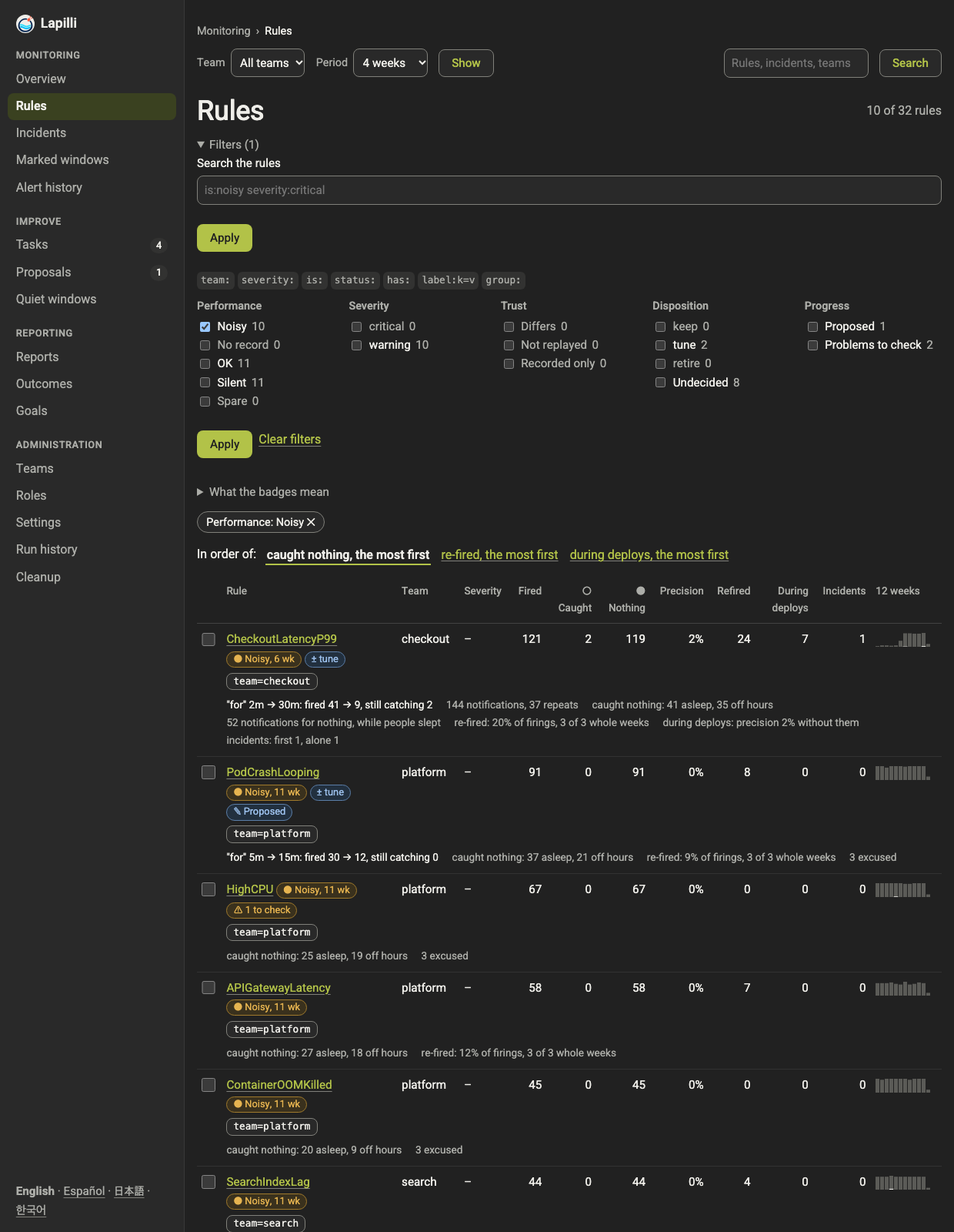
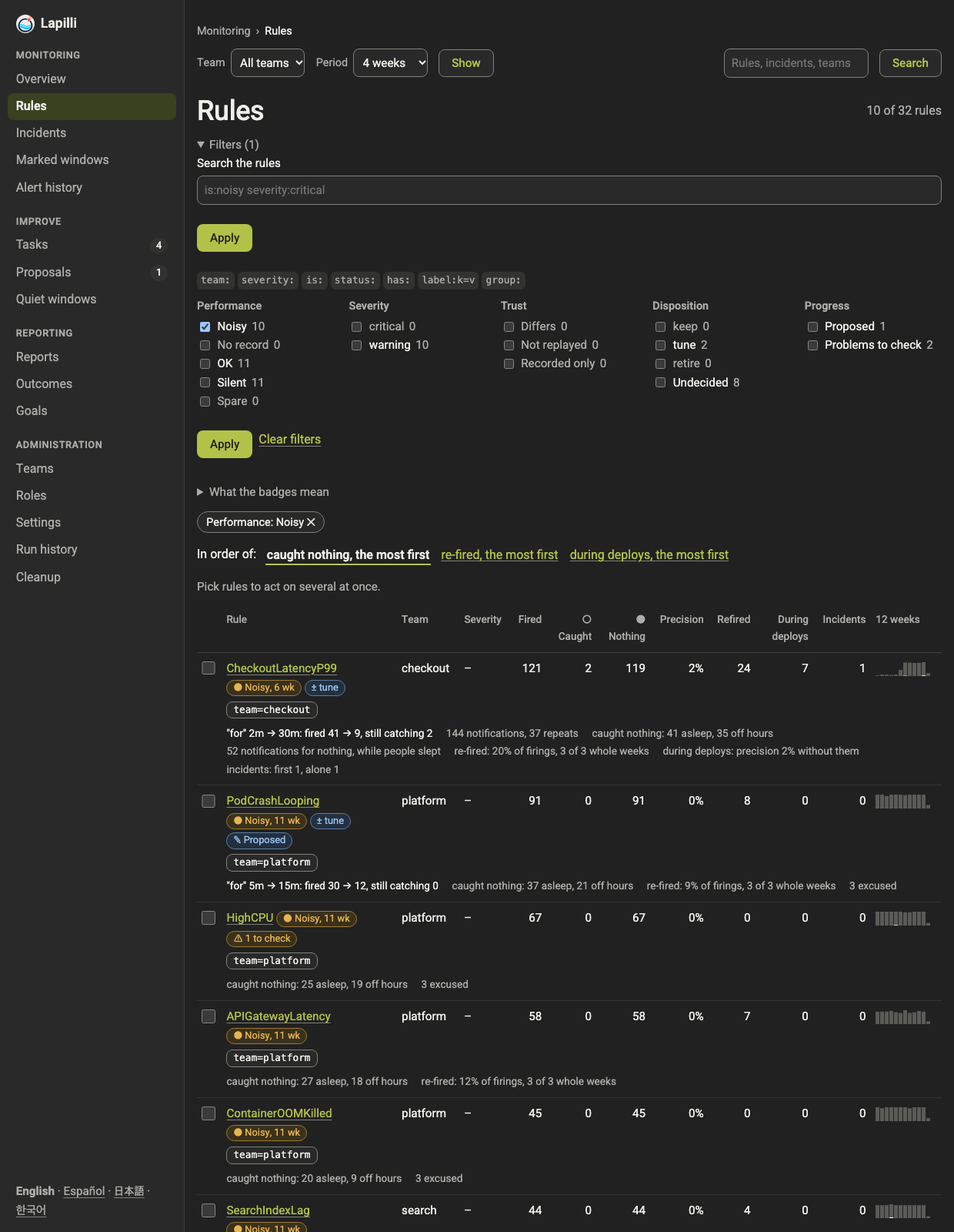
serve: review round 1: no record isn't 오탐, no firing isn't not judged
- The rules list's firings asleep of a rule with some not judged are of
  those that "caught nothing or not judged"; Korean says 인시던트를 잡지
  못한 발화 where a count may hold firings not judged, as in a tile that
  isn't known.
- Precision by week with no firing at all says so in no status's colour;
  "?" is for firings none of which was judged.
- The line before the rules list's checkboxes is shown again, shorter, and
  the bar's limits say only the rules one may change are.
- A row's notes name their rule to a screen reader; the sum's notes aren't
  drawn as a second sum.
- Cleanup is 남은 기록 정리: it holds impact windows' leftovers too. The
  design says where an arrow and a pill that is a link stay.
- TestRuleNumbersAlone counts the header's columns, in tbody and tfoot;
  TestNoRecordInALine covers a rule's page; TestPrecisionChartNone, no
  firing.

diff --git a/internal/serve/templates/rules.html b/internal/serve/templates/rules.html
@@ -21,7 +21,7 @@
 {{if .NoRecord}}<div class="notice status-unknown"><p><span class="sign" aria-hidden="true">?</span> {{if .Week}}{{t "No incident written down for the week of %s or the two weeks before: precision isn't known, and no rule is called noisy." .Week}}{{else}}{{t "No incident written down for these weeks or the two weeks before: precision isn't known, and no rule is called noisy."}}{{end}} <a href="{{$.Link "/incidents"}}">{{t "Write incidents down"}}</a></p>{{template "norecordwhy"}}</div>
 {{else if .Unkept}}<div class="notice status-unknown"><p><span class="sign" aria-hidden="true">?</span> {{t "%d of the %d weeks shown had no incident written down for them or the two weeks before: their firings are counted, not judged." .Unkept .Weeks}} <a href="{{$.Link "/incidents"}}">{{t "Write incidents down"}}</a></p>{{template "norecordwhy"}}</div>{{end}}
 {{if .Rows}}<form method="post" action="/rules/bulk" class="bulk">{{$b := .Bulk}}<input type="hidden" name="back" value="{{$b.Back}}">{{template "noenter"}}
-{{if $b.May}}<p class="vh bulk-hint">{{t "Pick rules in the list to make a task for each, set their team or disposition, or propose a change for each."}}</p>{{end}}
+{{if $b.May}}<p class="quiet bulk-hint">{{t "Pick rules to act on several at once."}}</p>{{end}}
 <fieldset class="bulk-bar"><legend>{{t "With the rules picked"}}</legend>
 {{if $b.May}}<button name="do" value="task">{{t "Make a task for each"}}</button>{{else}}{{template "off" (offOf $ "Make a task for each" "editor" "bulk-why")}}{{end}}
 {{$tw := "bulk-why"}}{{if $b.May}}{{$tw = "bulk-team-why"}}{{end}}<span class="bulk-set"><label>{{t "Team"}} <select name="team"{{if not $b.Team}} disabled aria-describedby="{{$tw}}"{{end}}><option value="0">{{t "by the teams' patterns"}}</option>{{range $b.Teams}}<option value="{{.ID}}">{{.Name}}</option>{{end}}</select></label>
@@ -31,7 +31,7 @@
 {{$pw := "bulk-why"}}{{if $b.ProposeWhy}}{{$pw = "bulk-propose-why"}}{{else if $b.May}}{{$pw = "bulk-team-why"}}{{end}}<span class="bulk-set"><label>{{t "Propose for each"}} <select name="propose"{{if not $b.Propose}} disabled aria-describedby="{{$pw}}"{{end}}><option value="for">{{t "a new for"}}</option><option value="suggested">{{t "the for suggested for it"}}</option><option value="retire">{{t "retiring it"}}</option></select></label>
 <label>{{t "A new for"}} <input name="for" maxlength="20" size="8" placeholder="15m"{{if not $b.Propose}} disabled aria-describedby="{{$pw}}"{{end}}></label>
 {{if $b.Propose}}<button class="quiet-button" name="do" value="propose">{{t "Propose"}}</button>{{else if $b.ProposeWhy}}{{template "off" (quiet (offWhy "Propose" "bulk-propose-why" $b.ProposeWhy))}}{{else if $b.May}}{{template "off" (again (quiet (offOf $ "Propose" "editor" "bulk-team-why")))}}{{else}}{{template "off" (again (quiet (offOf $ "Propose" "editor" "bulk-why")))}}{{end}}</span>
-<p class="quiet">{{t "At most %d rules at a time, %d for proposals; each proposal is backtested and waits for a person to approve it." 100 20}}</p>
+<p class="quiet">{{t "At most %d rules at a time, %d for proposals, and only those you may change; each proposal is backtested and waits for a person to approve it." 100 20}}</p>
 </fieldset>
 <div class="scroll"><table class="rules-table">
 <thead><tr><th scope="col" class="pick"><span class="vh">{{t "Pick"}}</span></th><th scope="col">{{t "Rule"}}</th><th scope="col">{{t "Team"}}</th><th scope="col">{{t "Severity"}}</th><th scope="col" class="n">{{t "Fired"}}</th><th scope="col" class="n">{{t "○ Caught"}}</th><th scope="col" class="n">{{t "● Nothing"}}</th>{{if .Sum.Unjudged}}<th scope="col" class="n">{{t "? Not judged"}}</th>{{end}}<th scope="col" class="n">{{t "Precision"}}</th><th scope="col" class="n">{{t "Refired"}}</th>{{if .Deploys}}<th scope="col" class="n">{{t "During deploys"}}</th>{{end}}<th scope="col" class="n">{{t "Incidents"}}</th><th scope="col">{{t "12 weeks"}}</th></tr></thead>
@@ -68,9 +68,9 @@
 it is of: the for suggested; the notifications; the firings that caught
 nothing while people slept and off hours; the re-fires; those excused; the
 precision without the deploys'; the incidents caught first and alone. */}}
-{{define "rulenotes"}}<p class="row-notes">{{with .Suggestion}}<span class="hint">{{.}}</span>{{end}}
+{{define "rulenotes"}}<p class="row-notes"><span class="vh"><bdi>{{.Name}}</bdi>: </span>{{with .Suggestion}}<span class="hint">{{.}}</span>{{end}}
 {{- if .Notifications}}<span>{{t "%d notifications, %d repeats" .Notifications .Repeats}}</span>{{end}}
-{{- if or .AsleepBlack .OffHoursBlack}}<span>{{t "caught nothing: %d asleep, %d off hours" .AsleepBlack .OffHoursBlack}}</span>{{end}}
+{{- if or .AsleepBlack .OffHoursBlack}}<span>{{if .Unjudged}}{{t "caught nothing or not judged: %d asleep, %d off hours" .AsleepBlack .OffHoursBlack}}{{else}}{{t "caught nothing: %d asleep, %d off hours" .AsleepBlack .OffHoursBlack}}{{end}}</span>{{end}}
 {{- if .Woken}}<span>{{t "%d notifications for nothing, while people slept" .Woken}}</span>{{end}}
 {{- if .WokenUnjudged}}<span>{{t "%d notifications while people slept, with no incident written down to judge their firings by" .WokenUnjudged}}</span>{{end}}
 {{- if .Refired}}<span>{{if .RefiredOf}}{{t "re-fired: %s of firings, %d of %d whole weeks" .RefiredShare .RefiredWeeks .RefiredOf}}{{else}}{{t "re-fired: %s of firings" .RefiredShare}}{{end}}</span>{{end}}
@@ -78,7 +78,7 @@ precision without the deploys'; the incidents caught first and alone. */}}
 {{- if .Deploys}}<span>{{t "during deploys: precision %s without them" .Without}}</span>{{end}}
 {{- if and .Incidents (not .SomeRules)}}<span>{{t "incidents: first %d, alone %d" .First .Alone}}</span>{{end}}</p>{{end}}
 {{define "sumnotes"}}<p class="row-notes">{{if and .Notified (not .Uncounted)}}<span>{{t "%d notifications, %d repeats" .Notifications .Repeats}}</span>{{end}}
-{{- if or .AsleepBlack .OffHoursBlack}}<span>{{t "caught nothing: %d asleep, %d off hours" .AsleepBlack .OffHoursBlack}}</span>{{end}}
+{{- if or .AsleepBlack .OffHoursBlack}}<span>{{if .Unjudged}}{{t "caught nothing or not judged: %d asleep, %d off hours" .AsleepBlack .OffHoursBlack}}{{else}}{{t "caught nothing: %d asleep, %d off hours" .AsleepBlack .OffHoursBlack}}{{end}}</span>{{end}}
 {{- if .Uncounted}}<span>{{t "Notifications for nothing, while people slept: – (none were kept yet)"}}</span>{{else if .Notified}}{{if or .Woken (not .WokenUnjudged)}}<span>{{t "%d notifications for nothing, while people slept" .Woken}}</span>{{end}}{{if .WokenUnjudged}}<span>{{t "%d notifications while people slept, with no incident written down to judge their firings by" .WokenUnjudged}}</span>{{end}}{{end}}
 {{- if .Excused}}<span>{{t "%d excused" .Excused}}</span>{{end}}</p>{{end}}
 

diff --git a/internal/serve/testdata/unnamed-signal/rules.html b/internal/serve/testdata/unnamed-signal/rules.html
@@ -4,14 +4,14 @@
 <meta charset="utf-8">
 <meta name="viewport" content="width=device-width, initial-scale=1">
 <title>Rules · Lapilli</title>
-<link rel="icon" href="/static/mark-32.png?v=c531d44e6a01" sizes="32x32" type="image/png">
-<link rel="icon" href="/static/mark-16.png?v=c531d44e6a01" sizes="16x16" type="image/png">
-<link rel="stylesheet" href="/static/lapilli.css?v=c531d44e6a01">
+<link rel="icon" href="/static/mark-32.png?v=f9602dd71b35" sizes="32x32" type="image/png">
+<link rel="icon" href="/static/mark-16.png?v=f9602dd71b35" sizes="16x16" type="image/png">
+<link rel="stylesheet" href="/static/lapilli.css?v=f9602dd71b35">
 </head>
 <body>
 <a class="skip" href="#main">Skip to the page</a>
 <header class="side">
-  <a class="brand" href="/"><img src="/static/mark-48.png?v=c531d44e6a01" alt="" width="24" height="24">Lapilli</a>
+  <a class="brand" href="/"><img src="/static/mark-48.png?v=f9602dd71b35" alt="" width="24" height="24">Lapilli</a>
   <details class="menu"><summary>Menu<span class="menu-here"><span aria-hidden="true"> · </span><span class="vh">: </span>Rules</span></summary>
   <nav class="nav-menu" aria-label="Menu">
   <p class="nav-group" id="menu-see">Monitoring</p>
@@ -130,7 +130,7 @@
 <span class="bulk-set"><label>Propose for each <select name="propose" disabled aria-describedby="bulk-why"><option value="for">a new for</option><option value="suggested">the for suggested for it</option><option value="retire">retiring it</option></select></label>
 <label>A new for <input name="for" maxlength="20" size="8" placeholder="15m" disabled aria-describedby="bulk-why"></label>
 <span class="action-off"><button class="quiet-button" type="button" disabled aria-describedby="bulk-why">Propose</button></span></span>
-<p class="quiet">At most 100 rules at a time, 20 for proposals; each proposal is backtested and waits for a person to approve it.</p>
+<p class="quiet">At most 100 rules at a time, 20 for proposals, and only those you may change; each proposal is backtested and waits for a person to approve it.</p>
 </fieldset>
 <div class="scroll"><table class="rules-table">
 <thead><tr><th scope="col" class="pick"><span class="vh">Pick</span></th><th scope="col">Rule</th><th scope="col">Team</th><th scope="col">Severity</th><th scope="col" class="n">Fired</th><th scope="col" class="n">○ Caught</th><th scope="col" class="n">● Nothing</th><th scope="col" class="n">? Not judged</th><th scope="col" class="n">Precision</th><th scope="col" class="n">Refired</th><th scope="col" class="n">Incidents</th><th scope="col">12 weeks</th></tr></thead>
@@ -143,7 +143,7 @@
   <td class="n">21</td><td class="n">1</td><td class="n">6</td><td class="n">14</td><td class="n">14%</td><td class="n">19</td><td class="n">1</td>
   <td><svg class="spark" width="72" height="18" viewBox="0 0 72 18" role="img" aria-label="Stones by week: 08-17: 0 ○ 0 ●; 08-24: 0 ○ 0 ●; 08-31: 0 ○ 0 ●; 09-07: 0 ○ 0 ●; 09-14: 0 ○ 0 ●; 09-21: 0 ○ 0 ●; 09-28: 0 ○ 0 ●; 10-05: 0 ○ 0 ●; 10-12: 0 ○ 0 ●; 10-19: 0 ○ 0 ●; 10-26: 0 ○ 0 ●, 14 not judged; 11-02: 1 ○ 6 ●"><g><title>08-17: 0 ○ 0 ●</title><rect class="w" x="0" y="18" width="5" height="0"/><rect class="b" x="0" y="18" width="5" height="0"/></g><g><title>08-24: 0 ○ 0 ●</title><rect class="w" x="6" y="18" width="5" height="0"/><rect class="b" x="6" y="18" width="5" height="0"/></g><g><title>08-31: 0 ○ 0 ●</title><rect class="w" x="12" y="18" width="5" height="0"/><rect class="b" x="12" y="18" width="5" height="0"/></g><g><title>09-07: 0 ○ 0 ●</title><rect class="w" x="18" y="18" width="5" height="0"/><rect class="b" x="18" y="18" width="5" height="0"/></g><g><title>09-14: 0 ○ 0 ●</title><rect class="w" x="24" y="18" width="5" height="0"/><rect class="b" x="24" y="18" width="5" height="0"/></g><g><title>09-21: 0 ○ 0 ●</title><rect class="w" x="30" y="18" width="5" height="0"/><rect class="b" x="30" y="18" width="5" height="0"/></g><g><title>09-28: 0 ○ 0 ●</title><rect class="w" x="36" y="18" width="5" height="0"/><rect class="b" x="36" y="18" width="5" height="0"/></g><g><title>10-05: 0 ○ 0 ●</title><rect class="w" x="42" y="18" width="5" height="0"/><rect class="b" x="42" y="18" width="5" height="0"/></g><g><title>10-12: 0 ○ 0 ●</title><rect class="w" x="48" y="18" width="5" height="0"/><rect class="b" x="48" y="18" width="5" height="0"/></g><g><title>10-19: 0 ○ 0 ●</title><rect class="w" x="54" y="18" width="5" height="0"/><rect class="b" x="54" y="18" width="5" height="0"/></g><g><title>10-26: 0 ○ 0 ●, 14 not judged</title><rect class="w" x="60" y="18" width="5" height="0"/><rect class="b" x="60" y="18" width="5" height="0"/><rect class="u" x="60" y="0" width="5" height="18"/></g><g><title>11-02: 1 ○ 6 ●</title><rect class="w" x="66" y="16.714285714285715" width="5" height="1.2857142857142858"/><rect class="b" x="66" y="9" width="5" height="7.714285714285714"/></g></svg></td>
 </tr>
-<tr class="more"><td class="pick"></td><td colspan="11"><p class="row-notes"><span>re-fired: 90% of firings</span><span>incidents: first 1, alone 1</span></p></td></tr></tbody>
+<tr class="more"><td class="pick"></td><td colspan="11"><p class="row-notes"><span class="vh"><bdi>Errors</bdi>: </span><span>re-fired: 90% of firings</span><span>incidents: first 1, alone 1</span></p></td></tr></tbody>
 <tfoot><tr><th scope="row" colspan="4">The rule shown</th>
   <td class="n">21</td><td class="n">1</td><td class="n">6</td><td class="n">14</td><td class="n">14%</td><td class="n">19</td><td></td><td></td></tr></tfoot>
 </table></div></form>

diff --git a/internal/serve/testdata/unnamed-signal/window.html b/internal/serve/testdata/unnamed-signal/window.html
@@ -4,14 +4,14 @@
 <meta charset="utf-8">
 <meta name="viewport" content="width=device-width, initial-scale=1">
 <title>impact-20261103T0600Z user impact (--impact) · Lapilli</title>
-<link rel="icon" href="/static/mark-32.png?v=c531d44e6a01" sizes="32x32" type="image/png">
-<link rel="icon" href="/static/mark-16.png?v=c531d44e6a01" sizes="16x16" type="image/png">
-<link rel="stylesheet" href="/static/lapilli.css?v=c531d44e6a01">
+<link rel="icon" href="/static/mark-32.png?v=f9602dd71b35" sizes="32x32" type="image/png">
+<link rel="icon" href="/static/mark-16.png?v=f9602dd71b35" sizes="16x16" type="image/png">
+<link rel="stylesheet" href="/static/lapilli.css?v=f9602dd71b35">
 </head>
 <body>
 <a class="skip" href="#main">Skip to the page</a>
 <header class="side">
-  <a class="brand" href="/"><img src="/static/mark-48.png?v=c531d44e6a01" alt="" width="24" height="24">Lapilli</a>
+  <a class="brand" href="/"><img src="/static/mark-48.png?v=f9602dd71b35" alt="" width="24" height="24">Lapilli</a>
   <details class="menu"><summary>Menu<span class="menu-here"><span aria-hidden="true"> · </span><span class="vh">: </span>Incidents</span></summary>
   <nav class="nav-menu" aria-label="Menu">
   <p class="nav-group" id="menu-see">Monitoring</p>

diff --git a/internal/serve/testdata/unnamed-signal/overview.html b/internal/serve/testdata/unnamed-signal/overview.html
@@ -4,14 +4,14 @@
 <meta charset="utf-8">
 <meta name="viewport" content="width=device-width, initial-scale=1">
 <title>Your alerts, the last twelve weeks · Lapilli</title>
-<link rel="icon" href="/static/mark-32.png?v=c531d44e6a01" sizes="32x32" type="image/png">
-<link rel="icon" href="/static/mark-16.png?v=c531d44e6a01" sizes="16x16" type="image/png">
-<link rel="stylesheet" href="/static/lapilli.css?v=c531d44e6a01">
+<link rel="icon" href="/static/mark-32.png?v=f9602dd71b35" sizes="32x32" type="image/png">
+<link rel="icon" href="/static/mark-16.png?v=f9602dd71b35" sizes="16x16" type="image/png">
+<link rel="stylesheet" href="/static/lapilli.css?v=f9602dd71b35">
 </head>
 <body>
 <a class="skip" href="#main">Skip to the page</a>
 <header class="side">
-  <a class="brand" href="/"><img src="/static/mark-48.png?v=c531d44e6a01" alt="" width="24" height="24">Lapilli</a>
+  <a class="brand" href="/"><img src="/static/mark-48.png?v=f9602dd71b35" alt="" width="24" height="24">Lapilli</a>
   <details class="menu"><summary>Menu<span class="menu-here"><span aria-hidden="true"> · </span><span class="vh">: </span>Overview</span></summary>
   <nav class="nav-menu" aria-label="Menu">
   <p class="nav-group" id="menu-see">Monitoring</p>

diff --git a/internal/serve/testdata/unnamed-signal/impacts.html b/internal/serve/testdata/unnamed-signal/impacts.html
@@ -4,14 +4,14 @@
 <meta charset="utf-8">
 <meta name="viewport" content="width=device-width, initial-scale=1">
 <title>Incidents · Lapilli</title>
-<link rel="icon" href="/static/mark-32.png?v=c531d44e6a01" sizes="32x32" type="image/png">
-<link rel="icon" href="/static/mark-16.png?v=c531d44e6a01" sizes="16x16" type="image/png">
-<link rel="stylesheet" href="/static/lapilli.css?v=c531d44e6a01">
+<link rel="icon" href="/static/mark-32.png?v=f9602dd71b35" sizes="32x32" type="image/png">
+<link rel="icon" href="/static/mark-16.png?v=f9602dd71b35" sizes="16x16" type="image/png">
+<link rel="stylesheet" href="/static/lapilli.css?v=f9602dd71b35">
 </head>
 <body>
 <a class="skip" href="#main">Skip to the page</a>
 <header class="side">
-  <a class="brand" href="/"><img src="/static/mark-48.png?v=c531d44e6a01" alt="" width="24" height="24">Lapilli</a>
+  <a class="brand" href="/"><img src="/static/mark-48.png?v=f9602dd71b35" alt="" width="24" height="24">Lapilli</a>
   <details class="menu"><summary>Menu<span class="menu-here"><span aria-hidden="true"> · </span><span class="vh">: </span>Incidents</span></summary>
   <nav class="nav-menu" aria-label="Menu">
   <p class="nav-group" id="menu-see">Monitoring</p>

diff --git a/internal/serve/testdata/unnamed-signal/incidents.html b/internal/serve/testdata/unnamed-signal/incidents.html
@@ -4,14 +4,14 @@
 <meta charset="utf-8">
 <meta name="viewport" content="width=device-width, initial-scale=1">
 <title>Incidents · Lapilli</title>
-<link rel="icon" href="/static/mark-32.png?v=c531d44e6a01" sizes="32x32" type="image/png">
-<link rel="icon" href="/static/mark-16.png?v=c531d44e6a01" sizes="16x16" type="image/png">
-<link rel="stylesheet" href="/static/lapilli.css?v=c531d44e6a01">
+<link rel="icon" href="/static/mark-32.png?v=f9602dd71b35" sizes="32x32" type="image/png">
+<link rel="icon" href="/static/mark-16.png?v=f9602dd71b35" sizes="16x16" type="image/png">
+<link rel="stylesheet" href="/static/lapilli.css?v=f9602dd71b35">
 </head>
 <body>
 <a class="skip" href="#main">Skip to the page</a>
 <header class="side">
-  <a class="brand" href="/"><img src="/static/mark-48.png?v=c531d44e6a01" alt="" width="24" height="24">Lapilli</a>
+  <a class="brand" href="/"><img src="/static/mark-48.png?v=f9602dd71b35" alt="" width="24" height="24">Lapilli</a>
   <details class="menu"><summary>Menu<span class="menu-here"><span aria-hidden="true"> · </span><span class="vh">: </span>Incidents</span></summary>
   <nav class="nav-menu" aria-label="Menu">
   <p class="nav-group" id="menu-see">Monitoring</p>

diff --git a/internal/serve/testdata/unnamed-signal/rule.html b/internal/serve/testdata/unnamed-signal/rule.html
@@ -4,14 +4,14 @@
 <meta charset="utf-8">
 <meta name="viewport" content="width=device-width, initial-scale=1">
 <title>Errors · Lapilli</title>
-<link rel="icon" href="/static/mark-32.png?v=c531d44e6a01" sizes="32x32" type="image/png">
-<link rel="icon" href="/static/mark-16.png?v=c531d44e6a01" sizes="16x16" type="image/png">
-<link rel="stylesheet" href="/static/lapilli.css?v=c531d44e6a01">
+<link rel="icon" href="/static/mark-32.png?v=f9602dd71b35" sizes="32x32" type="image/png">
+<link rel="icon" href="/static/mark-16.png?v=f9602dd71b35" sizes="16x16" type="image/png">
+<link rel="stylesheet" href="/static/lapilli.css?v=f9602dd71b35">
 </head>
 <body>
 <a class="skip" href="#main">Skip to the page</a>
 <header class="side">
-  <a class="brand" href="/"><img src="/static/mark-48.png?v=c531d44e6a01" alt="" width="24" height="24">Lapilli</a>
+  <a class="brand" href="/"><img src="/static/mark-48.png?v=f9602dd71b35" alt="" width="24" height="24">Lapilli</a>
   <details class="menu"><summary>Menu<span class="menu-here"><span aria-hidden="true"> · </span><span class="vh">: </span>Rules</span></summary>
   <nav class="nav-menu" aria-label="Menu">
   <p class="nav-group" id="menu-see">Monitoring</p>

diff --git a/internal/serve/templates/overview.html b/internal/serve/templates/overview.html
@@ -54,7 +54,7 @@
 
 <figure class="card">
   <figcaption><h2>{{t "Precision by week"}}</h2></figcaption>
-  {{if not .Precision.HasPoints}}<p class="chart-none"><span class="status-unknown"><span aria-hidden="true">?</span> {{t "No week has judged firings, so there is no precision to draw."}}</span> <a href="#by-week">{{t "By week"}}</a></p>
+  {{if not .Precision.HasPoints}}<p class="chart-none">{{if .Precision.Fired}}<span class="status-unknown"><span aria-hidden="true">?</span> {{t "No week has judged firings, so there is no precision to draw."}}</span>{{else}}{{t "No firing in these weeks, so there is no precision to draw."}}{{end}} <a href="#by-week">{{t "By week"}}</a></p>
   {{else}}<svg class="chart" viewBox="0 0 560 200" role="img" aria-label="{{t "Precision by week; the same numbers are in the table below"}}">
     {{range .Precision.Ticks}}<line class="grid" x1="44" x2="550" y1="{{.Y}}" y2="{{.Y}}"/><text class="tick" x="38" y="{{.Y}}" dy="4">{{.Label}}</text>{{end}}
     <line class="base" x1="44" x2="550" y1="{{.Precision.Base}}" y2="{{.Precision.Base}}"/>

diff --git a/internal/serve/static/lapilli.css b/internal/serve/static/lapilli.css
@@ -448,6 +448,7 @@ a.chip:hover { background: var(--accent-soft); }
    under the row, each note apart, as wide as the row (rulenotes). */
 .rules-main tr.has-more > * { border-bottom: 0; }
 .rules-main tr.more > td { padding-top: 0; }
+.rules-main tfoot tr.more > td { border-top: 0; font-weight: 400; }
 .rules-main tbody tr.has-more:has(+ tr.more:hover) td { background: color-mix(in srgb, var(--panel) 55%, transparent); }
 .rules-main tbody tr.has-more:hover + tr.more td { background: color-mix(in srgb, var(--panel) 55%, transparent); }
 p.row-notes { margin: 0; display: flex; flex-wrap: wrap; gap: .1rem 1.1rem; font-size: .85rem; color: var(--dim); }

diff --git a/internal/serve/calm_test.go b/internal/serve/calm_test.go
@@ -15,6 +15,7 @@ import (
 	"testing"
 	"time"
 
+	"lapilli.dev/internal/ledger"
 	"lapilli.dev/internal/verdict"
 )
 
@@ -108,24 +109,42 @@ func TestOverviewLookFirst(t *testing.T) {
 }
 
 // TestRuleNumbersAlone: a rule's row holds its numbers alone, and what
-// they come with is a line under it, as wide as the row; with firings not
-// judged, they have a column of their own, not a note under ● Nothing.
+// they come with is a line under it, as wide as the row, in tbody and
+// tfoot, with the columns there are; with firings not judged, they have a
+// column of their own, not a note under ● Nothing, and the firings
+// asleep among those that caught nothing aren't said to be all judged.
 func TestRuleNumbersAlone(t *testing.T) {
 	notes := regexp.MustCompile(`<tr class="more"><td class="pick"></td><td colspan="(\d+)"><p class="row-notes">`)
 	cellNotes := regexp.MustCompile(`<td class="n">[^<]*<br>`)
-	t.Run("judged", func(t *testing.T) {
-		s := pagesServer(t)
-		_, body, _ := get(t, s.Handler(), "/rules?weeks=12")
+	// spans checks each line of notes spans every column but the pick's,
+	// as the header has them, and says how many lines there are.
+	spans := func(t *testing.T, body string) int {
+		t.Helper()
+		head := body[strings.Index(body, `<table class="rules-table">`):]
+		head = head[:strings.Index(head, "</thead>")]
+		cols := strings.Count(head, "<th ")
+		ms := notes.FindAllStringSubmatch(body, -1)
+		for _, m := range ms {
+			if m[1] != strconv.Itoa(cols-1) {
+				t.Errorf("a line of notes spans %s columns of %d", m[1], cols)
+			}
+		}
 		if cellNotes.MatchString(body) {
 			t.Error("a number's cell holds its notes")
 		}
-		m := notes.FindStringSubmatch(body)
-		if m == nil || !strings.Contains(body, "re-fired: ") {
+		return len(ms)
+	}
+	t.Run("judged", func(t *testing.T) {
+		s := pagesServer(t)
+		_, body, _ := get(t, s.Handler(), "/rules?weeks=12")
+		if spans(t, body) == 0 || !strings.Contains(body, "re-fired: ") {
 			t.Fatal("no line of notes under a row")
 		}
-		v := rulesFor(t, s, "weeks=12")
-		if want := (rulesList{rulesView: rulesView{Deploys: v.Deploys}, Sum: v.Sum}).Cols(); m[1] != strconv.Itoa(want) {
-			t.Errorf("the notes span %s columns, want %d", m[1], want)
+		if !strings.Contains(body, `<p class="row-notes"><span class="vh"><bdi>`) {
+			t.Error("a line of notes doesn't name its rule to a screen reader")
+		}
+		if strings.Contains(body, `<th scope="col" class="n">? Not judged</th>`) {
+			t.Error("a column of firings not judged, with none")
 		}
 	})
 	t.Run("not judged", func(t *testing.T) {
@@ -142,6 +161,10 @@ func TestRuleNumbersAlone(t *testing.T) {
 		}
 		if strings.Contains(body, " not judged</span>") {
 			t.Error("firings not judged are a note under ● Nothing")
+		}
+		spans(t, body)
+		if !strings.Contains(body, "caught nothing or not judged: ") {
+			t.Error("the firings asleep of a rule with some not judged are said to have caught nothing")
 		}
 	})
 }
@@ -169,6 +192,20 @@ func TestNoRecordInALine(t *testing.T) {
 			t.Errorf("%s says why in the line", path)
 		}
 	}
+	// A rule's page, in a ledger with no incident at all.
+	none := filepath.Join(t.TempDir(), "incidents.yaml")
+	if err := os.WriteFile(none, []byte("incidents: []\n"), 0o644); err != nil {
+		t.Fatal(err)
+	}
+	bare, _ := server(t, func(c *Config) { c.Incidents, c.Impact = none, "" })
+	if err := bare.look(ctx, &raw); err != nil {
+		t.Fatal(err)
+	}
+	bare.jobs(ctx, true)
+	_, body, _ := get(t, bare.Handler(), "/rules/Errors")
+	if line := "No incident written down for the weeks it fired or the two weeks before: its precision isn&#39;t known, and it isn&#39;t called noisy."; strings.Count(body, line) != 1 || strings.Count(body, why) != 1 {
+		t.Errorf("a rule's page: the line %d times, why %d times", strings.Count(body, line), strings.Count(body, why))
+	}
 }
 
 // TestPrecisionChartNone: with no week to draw a precision for, the chart
@@ -191,9 +228,18 @@ func TestPrecisionChartNone(t *testing.T) {
 		strings.Contains(body, "Precision by week; the same numbers are in the table below") {
 		t.Error("no precision to draw, and the chart is drawn empty")
 	}
-	_, body, _ = get(t, pagesServer(t).Handler(), "/")
+	ps := pagesServer(t)
+	_, body, _ = get(t, ps.Handler(), "/")
 	if strings.Contains(body, `class="chart-none"`) || !strings.Contains(body, "Precision by week; the same numbers are in the table below") {
 		t.Error("a precision to draw, and no chart")
+	}
+	// No firing at all isn't no record: said in no status's colour.
+	if _, err := ps.l.PutTeam(ctx, ledger.Team{Name: "quiet", Rules: "^NothingIsCalledThis$"}, "ana"); err != nil {
+		t.Fatal(err)
+	}
+	_, body, _ = get(t, ps.Handler(), "/?team=quiet")
+	if !strings.Contains(body, `<p class="chart-none">No firing in these weeks, so there is no precision to draw. <a href="#by-week">By week</a></p>`) {
+		t.Error("no firing, and it is said as none judged")
 	}
 }
 

diff --git a/internal/serve/teamhours_test.go b/internal/serve/teamhours_test.go
@@ -107,7 +107,7 @@ func TestTeamHours(t *testing.T) {
 	if x := tile("/?team=search", "en"); !strings.Contains(x, ">–<") || !strings.Contains(x, "10 came while people slept (firings that caught nothing, 22:00–08:00 in Asia/Tokyo)") {
 		t.Errorf("the team's overview: %s", x)
 	}
-	if x := tile("/?team=search", "ko"); !strings.Contains(x, "사람이 자는 시간에 10번 울렸어요 (오탐 발화, Asia/Tokyo 기준 22:00–08:00)") || strings.Contains(x, ">10<") {
+	if x := tile("/?team=search", "ko"); !strings.Contains(x, "사람이 자는 시간에 10번 울렸어요 (인시던트를 잡지 못한 발화, Asia/Tokyo 기준 22:00–08:00)") || strings.Contains(x, ">10<") {
 		t.Errorf("in Korean: %s", x)
 	}
 	if _, body, _ := get(t, h, "/teams"); !strings.Contains(body, "at work mon-sun 08:00-18:00, asleep 22:00-08:00, in Asia/Tokyo") ||

diff --git a/internal/serve/dashboard.go b/internal/serve/dashboard.go
@@ -193,6 +193,9 @@ type lineChart struct {
 	EndLabel  string
 	Base      float64
 	HasPoints bool
+	// Fired says a week drawn had firings: with no point, none of them
+	// judged, as against none at all.
+	Fired bool
 }
 
 type heatCell struct {
@@ -854,6 +857,7 @@ func precisionChart(l string, ws []*weekView, loc *time.Location) lineChart {
 	for i, w := range ws {
 		x := plotL + band*float64(i) + band/2
 		c.Labels = append(c.Labels, column{X: x, Mid: x, Label: w.Start.In(loc).Format("01-02"), Current: w.Current, Alt: (len(ws)-1-i)%2 == 1})
+		c.Fired = c.Fired || w.Firings > 0
 		p, ok := w.precision()
 		if !ok {
 			pen = "M"
